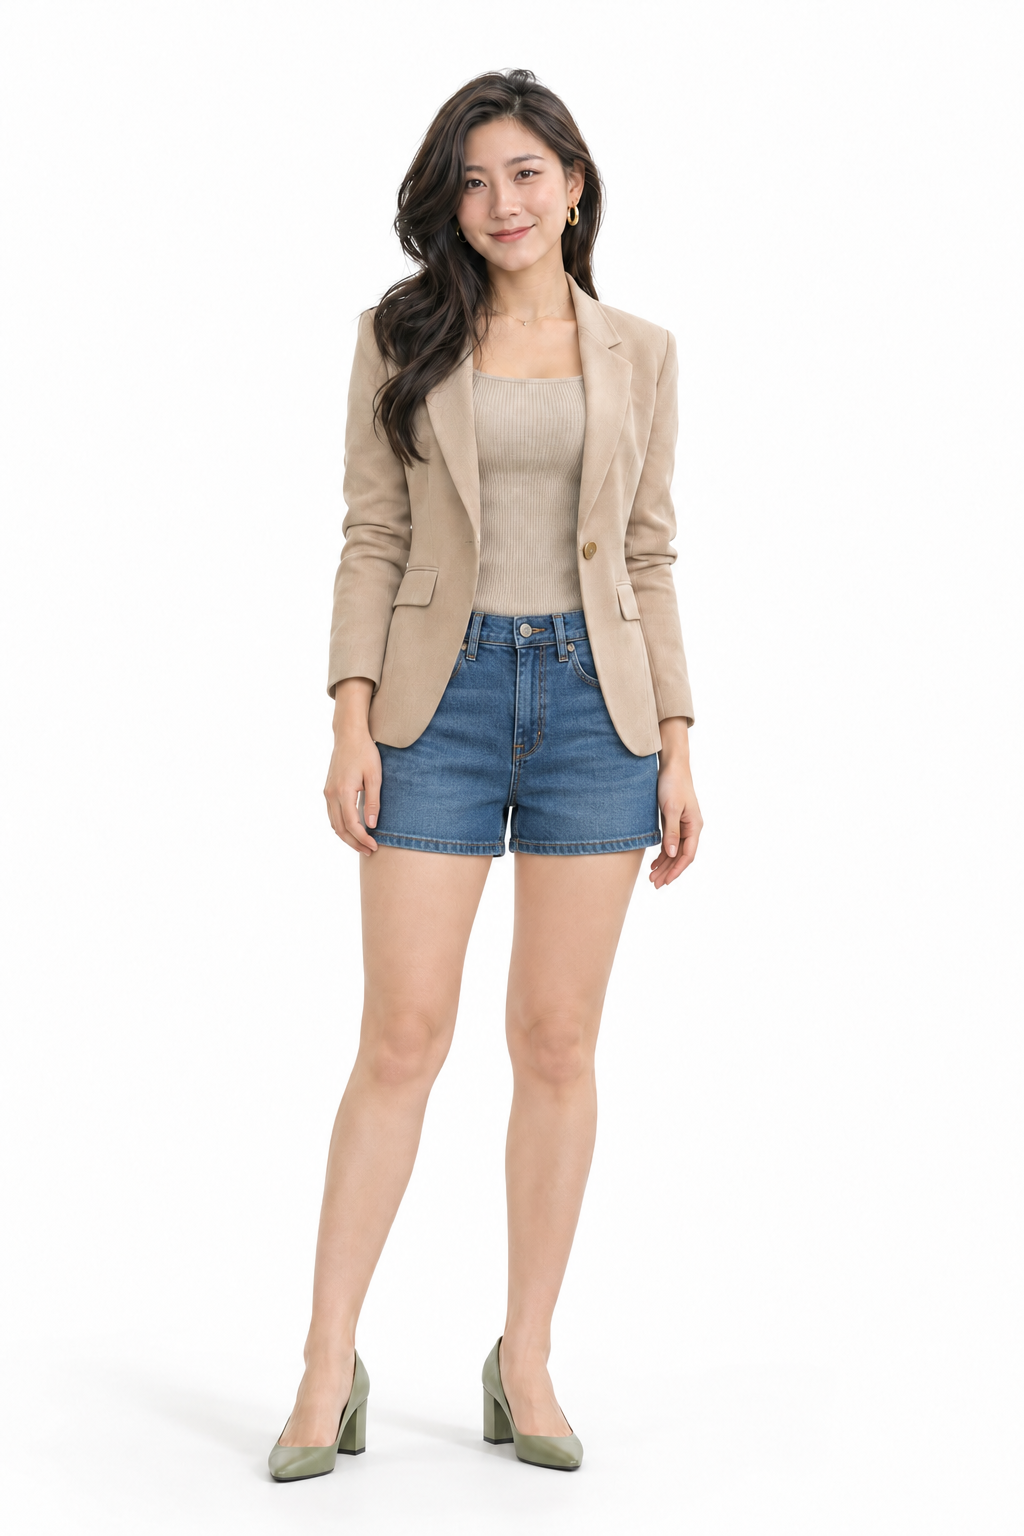
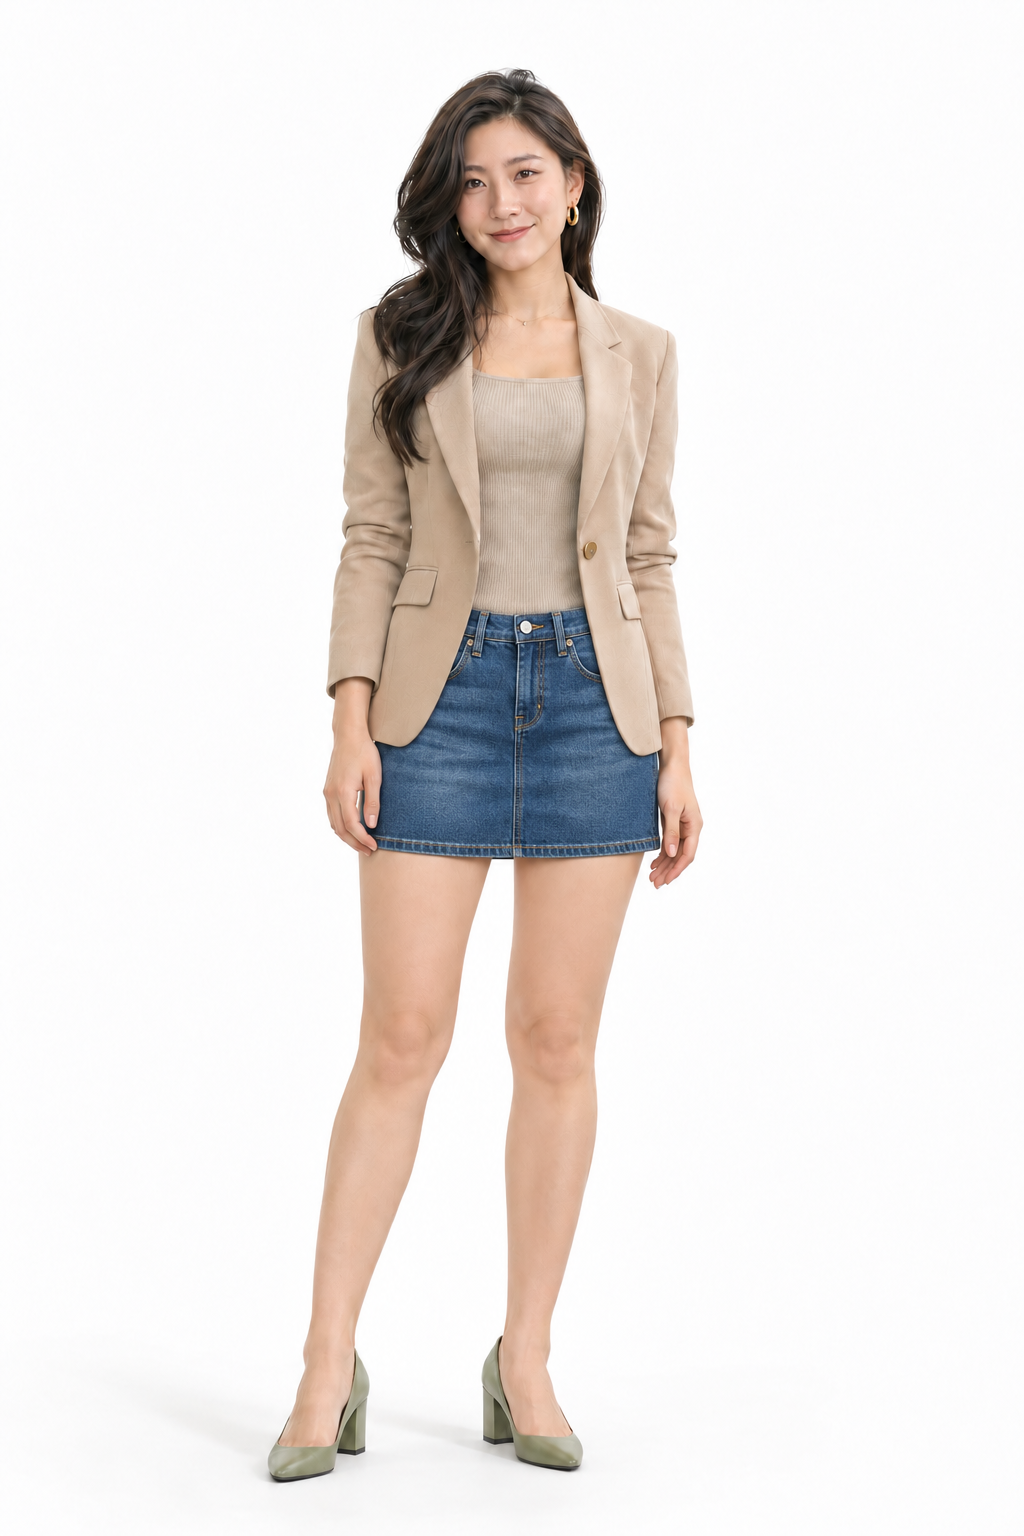
Correct lower-body contours for 22 and change 10 to denim skirt

Changed region(s): [[0.3438, 0.375, 0.6562, 0.5625], [0.375, 0.1562, 0.4062, 0.1875]]

diff --git a/assets/fullbody/README.md b/assets/fullbody/README.md
@@ -4,8 +4,8 @@
 
 ## 配置
 
-- 裙裝／連身裙裝：44 人（68.75%）；褲裝：20 人（31.25%），依後續指定更新。
-- 裙裝中膝上：39 人（88.6%）；其餘 5 人為及膝以下。
+- 裙裝／連身裙裝：45 人（70.3%）；褲裝：19 人（29.7%），依後續指定更新。
+- 裙裝中膝上：40 人（88.9%）；其餘 5 人為及膝以下。
 - 有跟鞋：51 人（79.7%）；帆布鞋／運動鞋：5 人（06、08、13、24、27）；其他平底鞋：8 人（02、04、05、09、22、23、39、42）。
 - 01～32 中短版露腰上衣：10 人（31.25%），編號 01、03、04、05、07、09、11、15、22、30。
 
@@ -24,7 +24,7 @@
 | avatar-07 | ![頭像](../avatars/avatar-07.webp) | [查看全身照](avatar-07.png) | 裙裝・膝上・短版露腰 | 有跟鞋 |
 | avatar-08 | ![頭像](../avatars/avatar-08.webp) | [查看全身照](avatar-08.png) | 褲裝 | 帆布鞋 |
 | avatar-09 | ![頭像](../avatars/avatar-09.webp) | [查看全身照](avatar-09.png) | 裙裝・膝上・短版露腰 | 平底鞋 |
-| avatar-10 | ![頭像](../avatars/avatar-10.webp) | [查看全身照](avatar-10.png) | 牛仔短褲 | 有跟鞋 |
+| avatar-10 | ![頭像](../avatars/avatar-10.webp) | [查看全身照](avatar-10.png) | 牛仔短裙 | 有跟鞋 |
 | avatar-11 | ![頭像](../avatars/avatar-11.webp) | [查看全身照](avatar-11.png) | 裙裝・膝上・短版露腰 | 有跟鞋 |
 | avatar-12 | ![頭像](../avatars/avatar-12.webp) | [查看全身照](avatar-12.png) | 褲裝 | 有跟鞋 |
 | avatar-13 | ![頭像](../avatars/avatar-13.webp) | [查看全身照](avatar-13.png) | 裙裝・膝上 | 帆布鞋 |
@@ -126,3 +126,5 @@
 40 改為米色膝上裙與跟鞋。56 臉部改用均勻色調校正與較窄柔邊貼合，改善合成邊緣，維持原頭像五官及縮短後腿部比例。
 
 最新調整：10、22 改牛仔短褲；14 改牛仔短裙；59 改牛仔長褲。保留原上衣、鞋款與頭像。
+
+22 已修整腰臀、胯部與腿部銜接及牛仔短褲剪裁；10 改為牛仔短裙。原上衣、鞋款與頭像保留。
